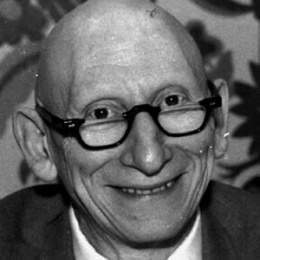
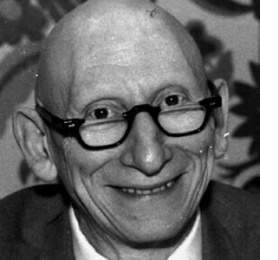
modified part 2

diff --git a/README.md b/README.md
@@ -1,5 +1,4 @@
-<img src="assets/perlis.png" align="left" width="200" alt="Alan J. Perlis">
-
+<img src="assets/perlis.png" align="left" width="192" alt="Alan J. Perlis">
 *“I think that it’s extraordinarily important that we in computer science keep fun in computing. When it started out, it was an awful lot of fun. Of course, the paying customers got shafted every now and then, and after a while we began to take their complaints seriously. We began to feel as if we really were responsible for the successful, error-free perfect use of these machines. I don’t think we are. I think we’re responsible for stretching them, setting them off in new directions, and keeping fun in the house. I hope the field of computer science never loses its sense of fun. Above all, I hope we don’t become missionaries. Don’t feel as if you’re Bible salesmen. The world has too many of those already. What you know about computing other people will learn. Don’t feel as if the key to successful computing is only in your hands. What’s in your hands, I think and hope, is intelligence: the ability to see the machine as more than when you were first led up to it, that you can make it more.”*
 
 **Alan J. Perlis** (April 1, 1922 – February 7, 1990)
@@ -8,7 +7,7 @@
 
 # Akseli Hyvönen
 
-Software developer, also going by axilian. Most of what I build runs on hardware I own: local LLM tooling, microcontroller firmware, and the web apps that sit in front of them.
+Software developer studying at Metropolia, also going by axilian. I mostly build embedded things and tools around local language models: a handheld console written from scratch on an ESP32-S3, a heart rate monitor on a Pico W, and a chat app and a voice robot that run on models hosted on my own machines. I also make games, and lately I've been spending my weekends at hackathons.
 
 You can find me at [akselihyv.com](https://akselihyv.com), on [LinkedIn](https://www.linkedin.com/in/akseli-hyv%C3%B6nen/), or at [akselihyv@gmail.com](mailto:akselihyv@gmail.com).
 
